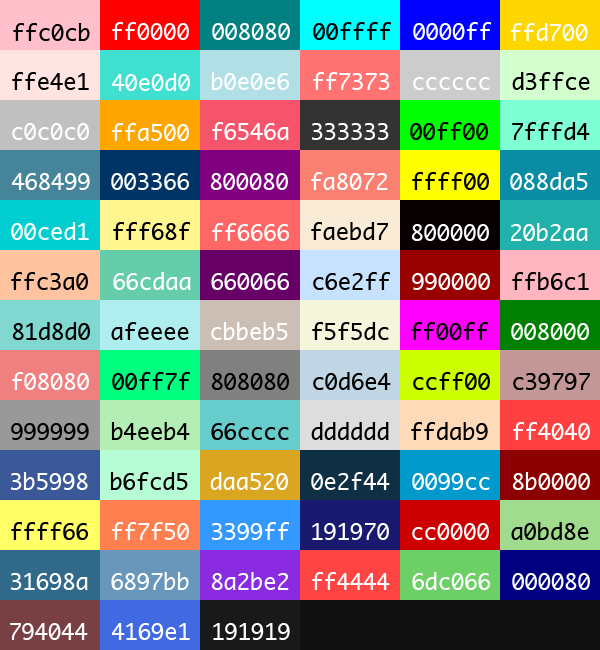
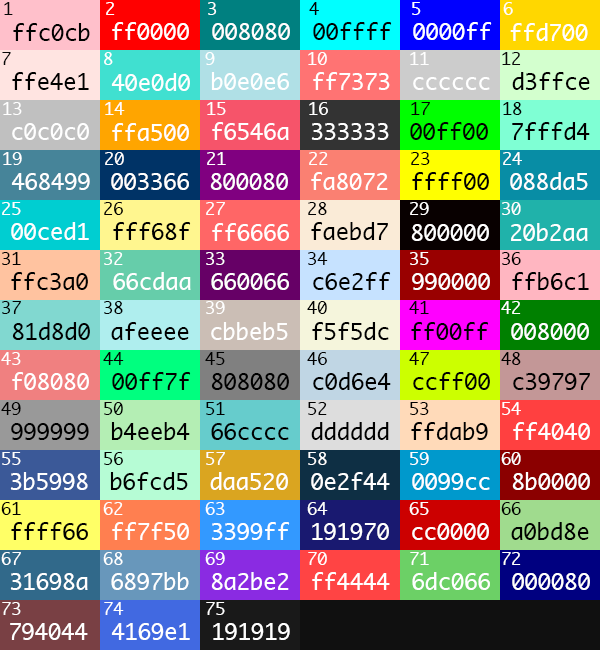
Updates to color help

diff --git a/data/commands/usercustomization.js b/data/commands/usercustomization.js
@@ -131,7 +131,7 @@ CommandArray.suicide = {
 
 CommandArray.color = {
     name: 'suicide',
-    usage: "colorValue",
+    usage: "<colorValue / Number in the list>",
     help: "Allow user to set a color",
     cooldown: 30,
     levelReq: 1,
